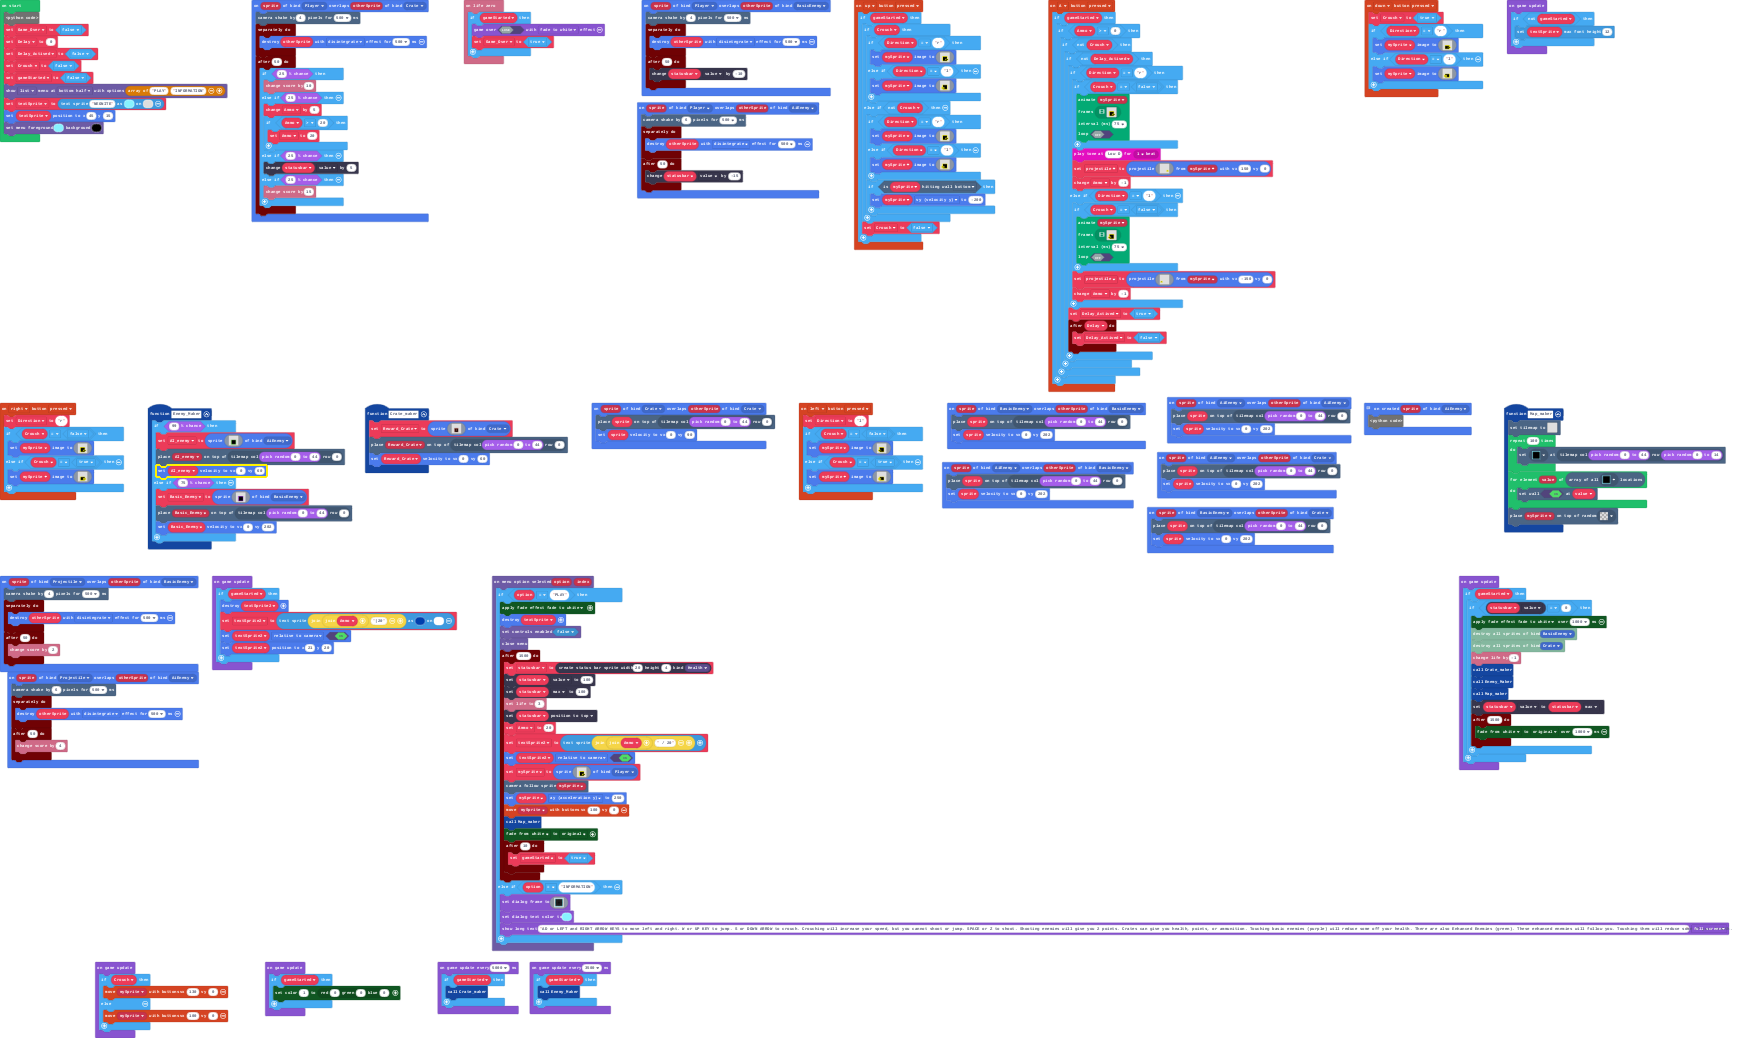
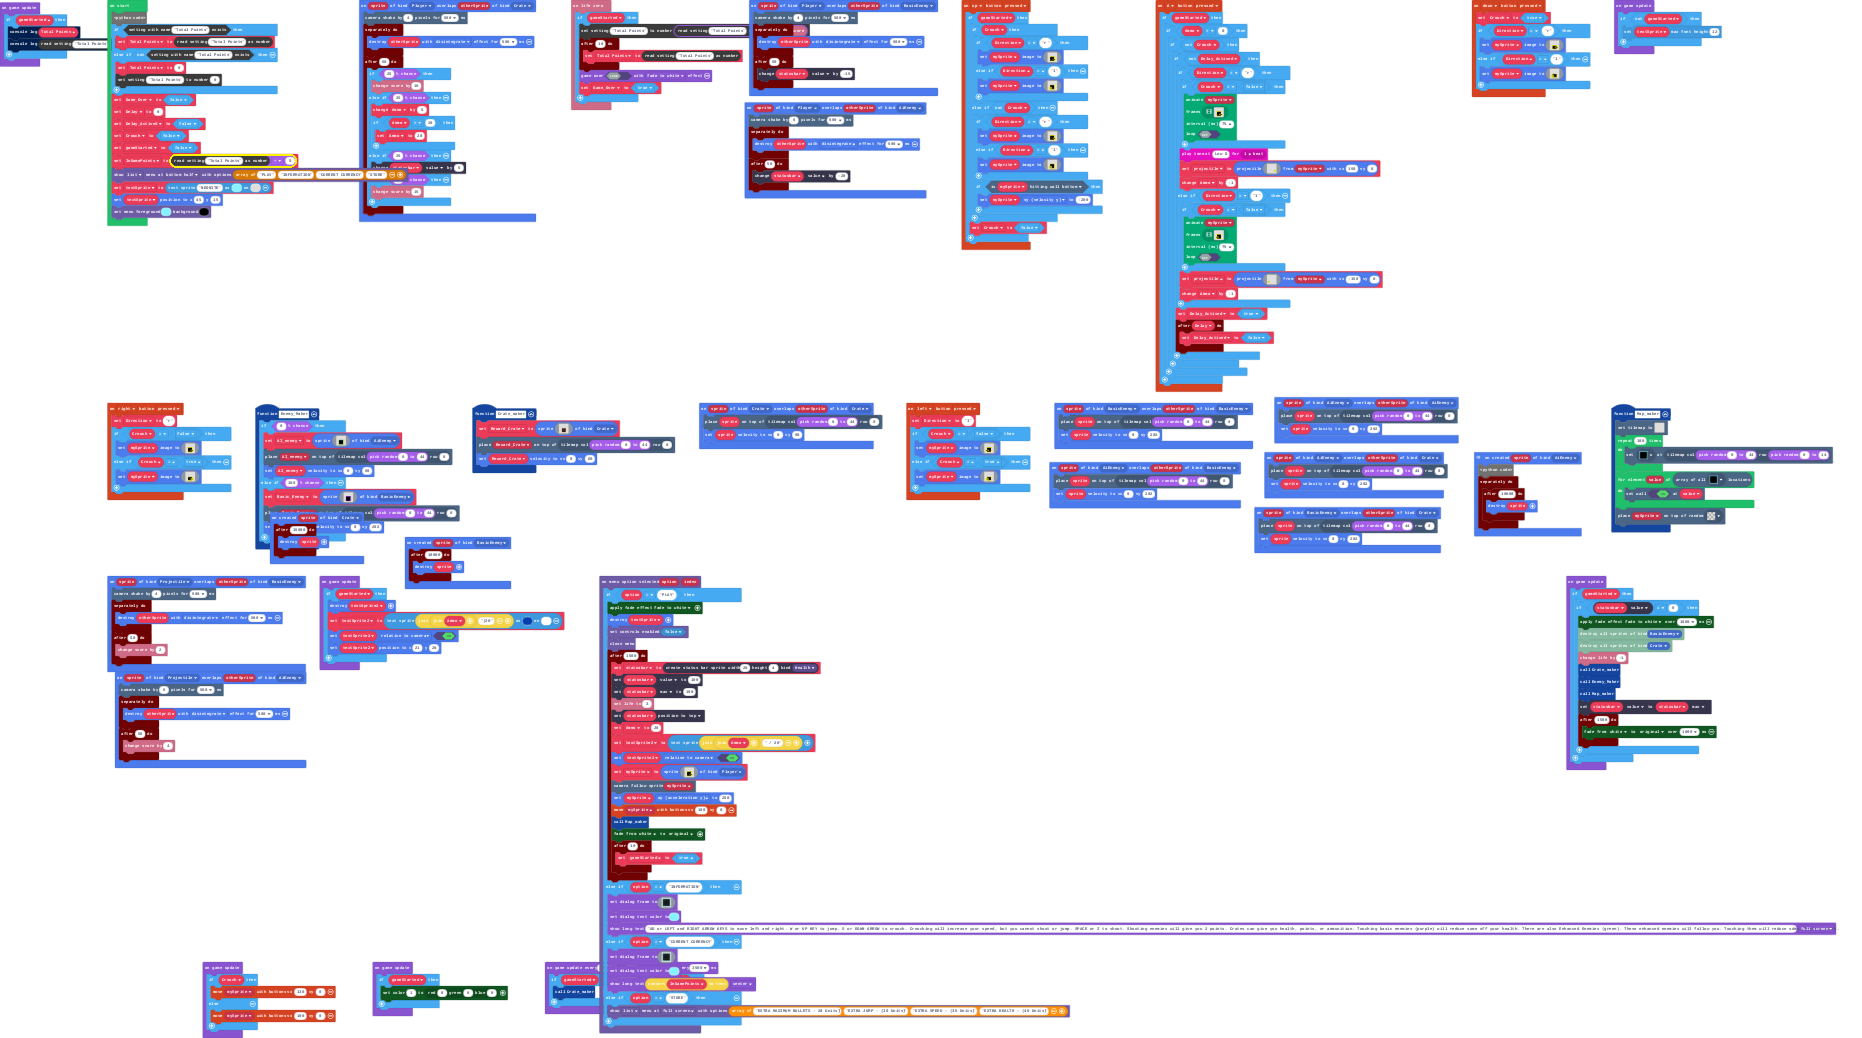
Update main.blocks, main.ts, tilemap.g.jres, tilemap.g.ts, main.py

Changed region(s): [[0.0, 0.0, 0.9846, 1.0], [0.8308, 0.5549, 0.9231, 0.7399], [0.7692, 0.0, 0.9231, 0.0925]]

diff --git a/main.ts b/main.ts
@@ -119,7 +119,7 @@ sprites.onOverlap(SpriteKind.Player, SpriteKind.BasicEnemy, function (sprite, ot
         otherSprite.destroy(effects.disintegrate, 500)
     })
     timer.after(50, function () {
-        statusbar.value += -10
+        statusbar.value += -15
     })
 })
 function Crate_maker () {
@@ -529,6 +529,11 @@ sprites.onCreated(SpriteKind.AiEnemy, function (sprite) {
             sprite.vy = 0
         }
     })
+timer.background(function () {
+        timer.after(10000, function () {
+            sprite.destroy()
+        })
+    })
 })
 controller.right.onEvent(ControllerButtonEvent.Pressed, function () {
     Direction = "r"
@@ -616,6 +621,10 @@ controller.down.onEvent(ControllerButtonEvent.Pressed, function () {
 })
 info.onLifeZero(function () {
     if (gameStarted) {
+        blockSettings.writeNumber("Total Points", blockSettings.readNumber("Total Points") + info.score())
+        timer.after(10, function () {
+            Total_Points = blockSettings.readNumber("Total Points")
+        })
         game.over(false, color.FadeToWhite)
         Game_Over = true
     }
@@ -626,7 +635,7 @@ sprites.onOverlap(SpriteKind.Player, SpriteKind.AiEnemy, function (sprite, other
         otherSprite.destroy(effects.disintegrate, 500)
     })
     timer.after(50, function () {
-        statusbar.value += -15
+        statusbar.value += -20
     })
 })
 sprites.onOverlap(SpriteKind.Projectile, SpriteKind.BasicEnemy, function (sprite, otherSprite) {
@@ -638,9 +647,19 @@ sprites.onOverlap(SpriteKind.Projectile, SpriteKind.BasicEnemy, function (sprite
         info.changeScoreBy(2)
     })
 })
+sprites.onCreated(SpriteKind.BasicEnemy, function (sprite) {
+    timer.after(10000, function () {
+        sprite.destroy()
+    })
+})
 sprites.onOverlap(SpriteKind.AiEnemy, SpriteKind.AiEnemy, function (sprite, otherSprite) {
     tiles.placeOnTile(sprite, tiles.getTileLocation(randint(0, 44), 0))
     sprite.setVelocity(0, 202)
+})
+sprites.onCreated(SpriteKind.Crate, function (sprite) {
+    timer.after(15000, function () {
+        sprite.destroy()
+    })
 })
 blockMenu.onMenuOptionSelected(function (option, index) {
     if (option == "PLAY") {
@@ -704,6 +723,28 @@ blockMenu.onMenuOptionSelected(function (option, index) {
             `)
         game.setDialogTextColor(9)
         game.showLongText("AD or LEFT and RIGHT ARROW KEYS to move left and right. W or UP KEY to jump. S or DOWN ARROW to crouch. Crouching will increase your speed, but you cannot shoot or jump. SPACE or Z to shoot. Shooting enemies will give you 2 points. Crates can give you health, points, or ammunition. Touching basic enemies (purple) will reduce some off your health. There are also Enhanced Enemies (green). These enhanced enemies will follow you. Touching them will reduce some of your health.", DialogLayout.Full)
+    } else if (option == "CURRENT CURRENCY") {
+        game.setDialogFrame(img`
+            9 9 9 9 9 9 9 9 9 9 9 9 9 9 9 
+            9 f f f f f f f f f f f f f 9 
+            9 f f f f f f f f f f f f f 9 
+            9 f f f f f f f f f f f f f 9 
+            9 f f f f f f f f f f f f f 9 
+            9 f f f f f f f f f f f f f 9 
+            9 f f f f f f f f f f f f f 9 
+            9 f f f f f f f f f f f f f 9 
+            9 f f f f f f f f f f f f f 9 
+            9 f f f f f f f f f f f f f 9 
+            9 f f f f f f f f f f f f f 9 
+            9 f f f f f f f f f f f f f 9 
+            9 f f f f f f f f f f f f f 9 
+            9 f f f f f f f f f f f f f 9 
+            9 9 9 9 9 9 9 9 9 9 9 9 9 9 9 
+            `)
+        game.setDialogTextColor(9)
+        game.showLongText(convertToText(InGamePoints), DialogLayout.Center)
+    } else if (option == "STORE") {
+        blockMenu.showMenu(["EXTRA MAXIMUM BULLETS - 20 Units)", "EXTRA JUMP - (30 Units)", "EXTRA SPEED - (35 Units)", "EXTRA HEALTH - (40 Units)"], MenuStyle.List, MenuLocation.FullScreen)
     }
 })
 sprites.onOverlap(SpriteKind.AiEnemy, SpriteKind.Crate, function (sprite, otherSprite) {
@@ -711,7 +752,7 @@ sprites.onOverlap(SpriteKind.AiEnemy, SpriteKind.Crate, function (sprite, otherS
     sprite.setVelocity(0, 202)
 })
 function Enemy_Maker () {
-    if (Math.percentChance(99)) {
+    if (Math.percentChance(0)) {
         AI_enemy = sprites.create(img`
             . . . . . . . . . . . . . . . . 
             . . . . . . . . . . . . . . . . 
@@ -732,7 +773,7 @@ function Enemy_Maker () {
             `, SpriteKind.AiEnemy)
         tiles.placeOnTile(AI_enemy, tiles.getTileLocation(randint(0, 44), 0))
         AI_enemy.setVelocity(0, 60)
-    } else if (Math.percentChance(75)) {
+    } else if (Math.percentChance(100)) {
         Basic_Enemy = sprites.create(img`
             . . . . . . . . . . . . . . . . 
             . . . . . . . . . . . . . . . . 
@@ -764,21 +805,36 @@ let statusbar: StatusBarSprite = null
 let Ammo = 0
 let Direction = ""
 let textSprite: TextSprite = null
+let InGamePoints = 0
 let gameStarted = false
 let Crouch = false
 let Delay_Actived = false
 let Delay = 0
 let Game_Over = false
+let Total_Points = 0
 let mySprite : Sprite = null
+if (blockSettings.exists("Total Points")) {
+    Total_Points = blockSettings.readNumber("Total Points")
+} else if (!(blockSettings.exists("Total Points"))) {
+    Total_Points = 0
+    blockSettings.writeNumber("Total Points", 0)
+}
 Game_Over = false
 Delay = 0
 Delay_Actived = false
 Crouch = false
 gameStarted = false
-blockMenu.showMenu(["PLAY", "INFORMATION"], MenuStyle.List, MenuLocation.BottomHalf)
+InGamePoints = blockSettings.readNumber("Total Points") / 5
+blockMenu.showMenu(["PLAY", "INFORMATION", "CURRENT CURRENCY", "STORE"], MenuStyle.List, MenuLocation.BottomHalf)
 textSprite = textsprite.create("NEONITE", 0, 9)
 textSprite.setPosition(45, 15)
 blockMenu.setColors(9, 15)
+game.onUpdate(function () {
+    if (gameStarted) {
+        console.log(Total_Points)
+        console.log(blockSettings.readNumber("Total Points"))
+    }
+})
 game.onUpdate(function () {
     if (!(gameStarted)) {
         textSprite.setMaxFontHeight(12)

diff --git a/tilemap.g.ts b/tilemap.g.ts
@@ -109,6 +109,23 @@ namespace myTiles {
 .............................................
 .............................................
 `, [myTiles.transparency16,myTiles.tile16], TileScale.Sixteen)
[1 lines of base64/hex data omitted]
+.............................................
+.............................................
+.............................................
+.............................................
+.............................................
+.............................................
+.............................................
+.............................................
+.............................................
+.............................................
+.............................................
+.............................................
+.............................................
+.............................................
+.............................................
+`, [myTiles.transparency16,myTiles.tile16], TileScale.Sixteen)
         }
         return null;
     })

diff --git a/main.py b/main.py
@@ -638,9 +638,19 @@ sprites.onOverlap(SpriteKind.Projectile, SpriteKind.BasicEnemy, function (sprite
         info.changeScoreBy(2)
     })
 })
+sprites.onCreated(SpriteKind.BasicEnemy, function (sprite) {
+    timer.after(10000, function () {
+        sprite.destroy()
+    })
+})
 sprites.onOverlap(SpriteKind.AiEnemy, SpriteKind.AiEnemy, function (sprite, otherSprite) {
     tiles.placeOnTile(sprite, tiles.getTileLocation(randint(0, 44), 0))
     sprite.setVelocity(0, 202)
+})
+sprites.onCreated(SpriteKind.Crate, function (sprite) {
+    timer.after(15000, function () {
+        sprite.destroy()
+    })
 })
 blockMenu.onMenuOptionSelected(function (option, index) {
     if (option == "PLAY") {
@@ -711,7 +721,7 @@ sprites.onOverlap(SpriteKind.AiEnemy, SpriteKind.Crate, function (sprite, otherS
     sprite.setVelocity(0, 202)
 })
 function Enemy_Maker () {
-    if (Math.percentChance(99)) {
+    if (Math.percentChance(0)) {
         AI_enemy = sprites.create(img`
             . . . . . . . . . . . . . . . . 
             . . . . . . . . . . . . . . . . 
@@ -731,7 +741,8 @@ function Enemy_Maker () {
             . . . 7 7 7 7 7 7 7 7 7 7 . . . 
             `, SpriteKind.AiEnemy)
         tiles.placeOnTile(AI_enemy, tiles.getTileLocation(randint(0, 44), 0))
-    } else if (Math.percentChance(75)) {
+        AI_enemy.setVelocity(0, 60)
+    } else if (Math.percentChance(100)) {
         Basic_Enemy = sprites.create(img`
             . . . . . . . . . . . . . . . . 
             . . . . . . . . . . . . . . . . 
